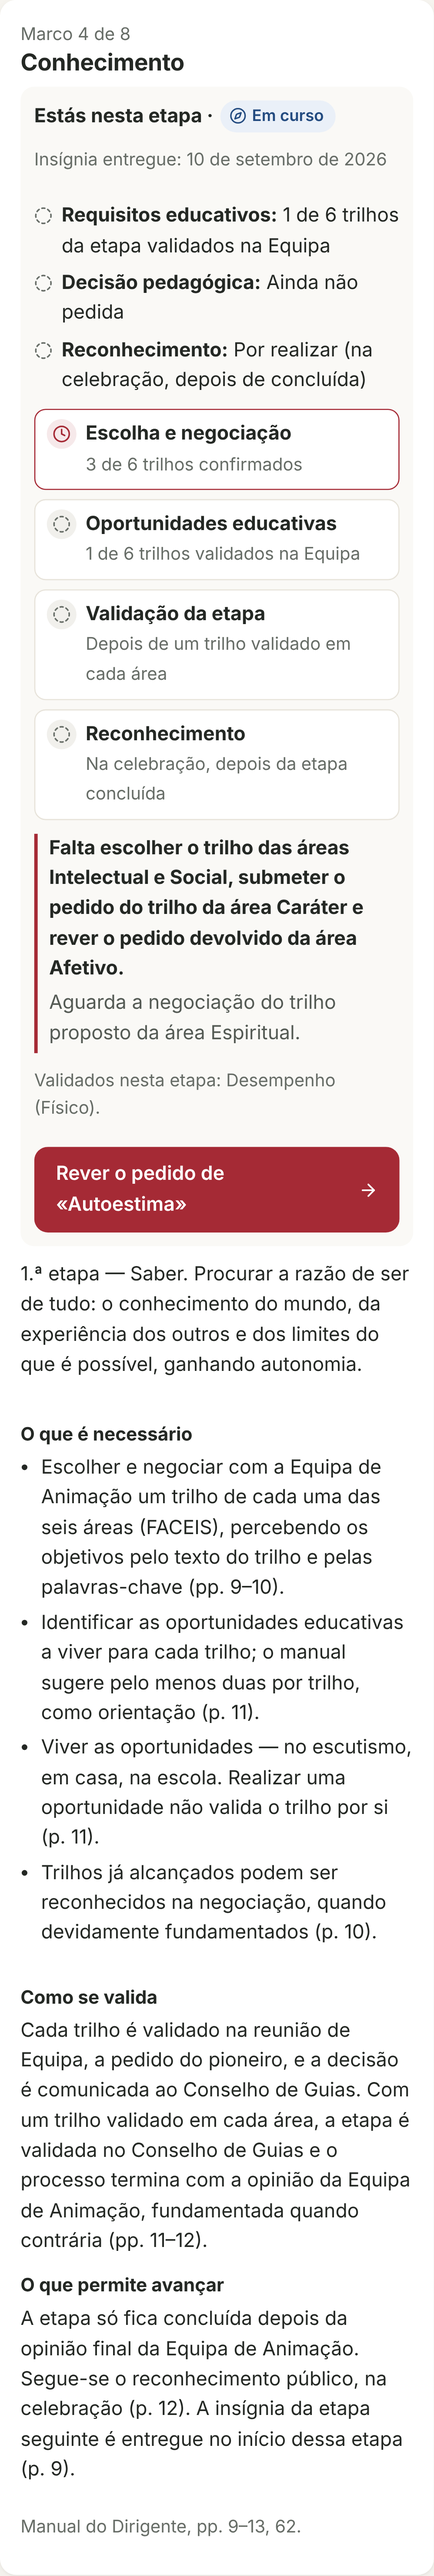
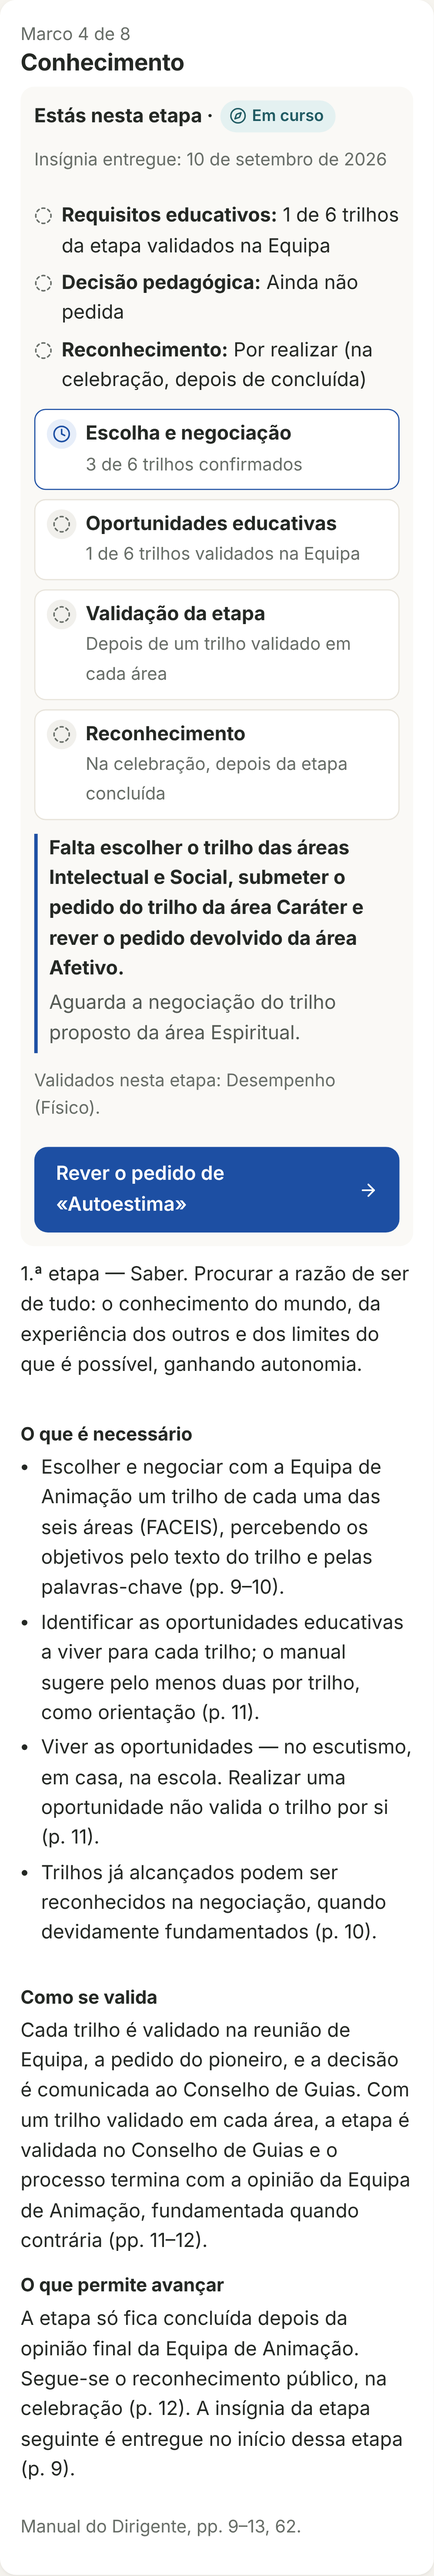
Cor principal passa a azulão (cor dos Pioneiros)
- Variáveis de destaque com nomes neutros (--accent*), azulão nos temas claro e escuro
  com contraste AA; anel de foco laranja para se distinguir do destaque.
- Logótipo e ícone em azulão; capturas atualizadas.

Claude-Session: https://claude.ai/code/session_01RHnng4HnqckYC12h8qqyAi

Changed region(s): [[0.0621, 0.4352, 0.9319, 0.4974], [0.0621, 0.3109, 0.0932, 0.4041], [0.0621, 0.1554, 0.0932, 0.1865]]

diff --git a/src/styles.css b/src/styles.css
@@ -10,18 +10,18 @@
   --ink: #242824;
   --ink-soft: #545a54;
   --ink-faint: #676d67;
-  --red: #a52a35;            /* preenchimento de destaque */
-  --red-dark: #861f29;
-  --red-ink: #a52a35;        /* texto/ícones de destaque sobre o fundo */
-  --red-tint: #f6e9ea;
-  --on-red: #ffffff;
+  --accent: #1d4fa3;         /* azulão dos Pioneiros: preenchimento de destaque */
+  --accent-strong: #163e82;
+  --accent-ink: #1d4fa3;     /* texto/ícones de destaque sobre o fundo */
+  --accent-tint: #e7eef9;
+  --on-accent: #ffffff;
   --green: #51634e;
   --green-ink: #4a5c47;
   --green-tint: #edf1ec;
   --amber: #8a5a12;
   --amber-tint: #fbf1e0;
-  --blue-ink: #234b80;
-  --blue-tint: #eaf0f8;
+  --blue-ink: #1f5a62;
+  --blue-tint: #e4f1f1;
   --info-ink: #2b3f5c;
   --info-tint: #eef1f6;
   --neutral-tint: #efede7;
@@ -32,7 +32,7 @@
   --topo: #d9d2c3;           /* linhas topográficas */
   --path: #d8c9a8;           /* trilho do mapa */
   --path-edge: #c2b28d;
-  --focus: #1f5fbf;
+  --focus: #c2560c;
   --radius: 14px;
   --shadow: 0 1px 2px rgba(36, 40, 36, 0.05), 0 4px 14px rgba(36, 40, 36, 0.05);
   --nav-h: 64px;
@@ -55,18 +55,18 @@
   --ink: #ecebe5;
   --ink-soft: #bec2ba;
   --ink-faint: #9ea39a;
-  --red: #b5333e;
-  --red-dark: #c8434e;
-  --red-ink: #f0939b;
-  --red-tint: #3a2226;
-  --on-red: #ffffff;
+  --accent: #2f63c4;
+  --accent-strong: #3d71d3;
+  --accent-ink: #9fc0f5;
+  --accent-tint: #1c2a44;
+  --on-accent: #ffffff;
   --green: #8fae89;
   --green-ink: #a9c6a3;
   --green-tint: #263025;
   --amber: #e7bb6c;
   --amber-tint: #382c18;
-  --blue-ink: #a7c5f0;
-  --blue-tint: #1e2a3a;
+  --blue-ink: #9fd3d3;
+  --blue-tint: #1d3132;
   --info-ink: #b9c9e2;
   --info-tint: #232b37;
   --neutral-tint: #30362f;
@@ -77,7 +77,7 @@
   --topo: #2f352e;
   --path: #4a4436;
   --path-edge: #5d5541;
-  --focus: #86b4ff;
+  --focus: #f3a35b;
   --shadow: 0 1px 2px rgba(0, 0, 0, 0.3), 0 4px 14px rgba(0, 0, 0, 0.25);
   color-scheme: dark;
 }
@@ -92,18 +92,18 @@
   --ink: #ecebe5;
   --ink-soft: #bec2ba;
   --ink-faint: #9ea39a;
-  --red: #b5333e;
-  --red-dark: #c8434e;
-  --red-ink: #f0939b;
-  --red-tint: #3a2226;
-  --on-red: #ffffff;
+  --accent: #2f63c4;
+  --accent-strong: #3d71d3;
+  --accent-ink: #9fc0f5;
+  --accent-tint: #1c2a44;
+  --on-accent: #ffffff;
   --green: #8fae89;
   --green-ink: #a9c6a3;
   --green-tint: #263025;
   --amber: #e7bb6c;
   --amber-tint: #382c18;
-  --blue-ink: #a7c5f0;
-  --blue-tint: #1e2a3a;
+  --blue-ink: #9fd3d3;
+  --blue-tint: #1d3132;
   --info-ink: #b9c9e2;
   --info-tint: #232b37;
   --neutral-tint: #30362f;
@@ -114,7 +114,7 @@
   --topo: #2f352e;
   --path: #4a4436;
   --path-edge: #5d5541;
-  --focus: #86b4ff;
+  --focus: #f3a35b;
   --shadow: 0 1px 2px rgba(0, 0, 0, 0.3), 0 4px 14px rgba(0, 0, 0, 0.25);
   color-scheme: dark;
   }
@@ -124,7 +124,7 @@
 html, body { margin: 0; background: var(--ivory); }
 body { min-height: 100dvh; -webkit-font-smoothing: antialiased; }
 img { max-width: 100%; display: block; }
-a { color: var(--red-ink); text-underline-offset: 3px; }
+a { color: var(--accent-ink); text-underline-offset: 3px; }
 h1, h2, h3 { line-height: 1.25; margin: 0 0 0.5rem; font-weight: 650; letter-spacing: -0.01em; }
 h1 { font-size: 1.55rem; }
 h2 { font-size: 1.2rem; }
@@ -158,7 +158,7 @@ small, .muted { color: var(--ink-soft); }
   flex: 1; display: flex; flex-direction: column; align-items: center; justify-content: center; gap: 2px;
   color: var(--ink-soft); text-decoration: none; font-size: 0.75rem; min-width: 0;
 }
-.nav-link[aria-current='page'] { color: var(--red-ink); font-weight: 650; }
+.nav-link[aria-current='page'] { color: var(--accent-ink); font-weight: 650; }
 .side-nav { display: none; }
 
 @media (min-width: 960px) {
@@ -166,7 +166,7 @@ small, .muted { color: var(--ink-soft); }
   .bottom-nav { display: none; }
   .side-nav { display: flex; flex-direction: column; gap: 4px; padding: 24px 12px; position: sticky; top: 56px; align-self: start; }
   .side-nav .nav-link { flex-direction: row; justify-content: flex-start; gap: 12px; font-size: 1rem; padding: 10px 14px; border-radius: 10px; }
-  .side-nav .nav-link[aria-current='page'] { background: var(--red-tint); }
+  .side-nav .nav-link[aria-current='page'] { background: var(--accent-tint); }
   .main { padding: 28px 24px 48px; }
 }
 
@@ -194,13 +194,13 @@ a.list-item:hover { background: var(--surface-2); }
 .btn {
   display: inline-flex; align-items: center; justify-content: center; gap: 8px; min-height: 48px; padding: 10px 18px;
   border-radius: 12px; border: 1px solid transparent; font: inherit; font-weight: 600; cursor: pointer; text-decoration: none;
-  background: var(--red); color: var(--on-red); transition: background 0.15s;
+  background: var(--accent); color: var(--on-accent); transition: background 0.15s;
 }
-.btn:hover { background: var(--red-dark); }
+.btn:hover { background: var(--accent-strong); }
 .btn.secondary { background: var(--card); color: var(--ink); border-color: var(--line); }
 .btn.secondary:hover { background: var(--surface-3); }
-.btn.ghost { background: transparent; color: var(--red-ink); padding: 10px 8px; }
-.btn.ghost:hover { background: var(--red-tint); }
+.btn.ghost { background: transparent; color: var(--accent-ink); padding: 10px 8px; }
+.btn.ghost:hover { background: var(--accent-tint); }
 .btn.quiet { background: var(--green-tint); color: var(--green-ink); }
 .btn.block { width: 100%; }
 .btn:disabled { opacity: 0.55; cursor: not-allowed; }
@@ -222,7 +222,7 @@ fieldset { border: 0; padding: 0; margin: 0 0 14px; }
 legend { font-weight: 600; margin-bottom: 6px; }
 .radio-cards { display: grid; gap: 8px; }
 .radio-card { display: flex; gap: 10px; align-items: flex-start; border: 1px solid var(--line); border-radius: 10px; padding: 12px; cursor: pointer; }
-.radio-card:has(input:checked) { border-color: var(--red); background: var(--red-tint); }
+.radio-card:has(input:checked) { border-color: var(--accent); background: var(--accent-tint); }
 
 /* Estados (texto + ícone + cor) */
 .badge { display: inline-flex; align-items: center; gap: 5px; font-size: 0.82rem; font-weight: 600; padding: 3px 10px 3px 8px; border-radius: 99px; white-space: nowrap; }
@@ -233,7 +233,7 @@ legend { font-weight: 600; margin-bottom: 6px; }
 .tone-muted { background: var(--muted-tint); color: var(--ink-faint); }
 
 .alert { display: flex; gap: 10px; align-items: flex-start; padding: 12px 14px; border-radius: 12px; margin-bottom: 14px; }
-.alert.error { background: var(--red-tint); color: var(--red-ink); }
+.alert.error { background: var(--accent-tint); color: var(--accent-ink); }
 .alert.success { background: var(--green-tint); color: var(--green-ink); }
 .alert.info { background: var(--info-tint); color: var(--info-ink); }
 .alert.warn { background: var(--amber-tint); color: var(--amber); }
@@ -242,7 +242,7 @@ legend { font-weight: 600; margin-bottom: 6px; }
 .empty { text-align: center; padding: 28px 16px; color: var(--ink-soft); }
 .empty svg { color: var(--green-ink); margin: 0 auto 8px; }
 .loading { display: flex; align-items: center; justify-content: center; gap: 10px; padding: 32px; color: var(--ink-soft); }
-.spinner { width: 20px; height: 20px; border: 2.5px solid var(--line); border-top-color: var(--red); border-radius: 50%; animation: spin 0.9s linear infinite; }
+.spinner { width: 20px; height: 20px; border: 2.5px solid var(--line); border-top-color: var(--accent); border-radius: 50%; animation: spin 0.9s linear infinite; }
 @keyframes spin { to { transform: rotate(360deg); } }
 @media (prefers-reduced-motion: reduce) { .spinner { animation-duration: 3s; } * { transition: none !important; } }
 
@@ -255,13 +255,13 @@ legend { font-weight: 600; margin-bottom: 6px; }
 .meter { height: 8px; background: var(--meter); border-radius: 99px; overflow: hidden; }
 .meter > span { display: block; height: 100%; background: var(--green); border-radius: 99px; }
 .area-head { display: flex; align-items: center; gap: 10px; }
-.area-code { width: 34px; height: 34px; border-radius: 10px; background: var(--red-tint); color: var(--red-ink); display: grid; place-items: center; font-weight: 700; flex: none; }
+.area-code { width: 34px; height: 34px; border-radius: 10px; background: var(--accent-tint); color: var(--accent-ink); display: grid; place-items: center; font-weight: 700; flex: none; }
 .slot-grid { display: grid; gap: 8px; }
 @media (min-width: 640px) { .slot-grid { grid-template-columns: 1fr 1fr; } }
 .slot { border: 1px solid var(--line); border-radius: 12px; padding: 12px; display: flex; gap: 10px; align-items: flex-start; text-decoration: none; color: inherit; min-height: 64px; }
 .objective { display: grid; grid-template-columns: auto 1fr; gap: 10px; padding: 10px 0; border-top: 1px solid var(--line); }
 .objective:first-child { border-top: 0; }
-.code { font-weight: 700; color: var(--red-ink); font-variant-numeric: tabular-nums; }
+.code { font-weight: 700; color: var(--accent-ink); font-variant-numeric: tabular-nums; }
 .chips { display: flex; flex-wrap: wrap; gap: 6px; }
 .chip { background: var(--surface-3); border-radius: 99px; padding: 2px 10px; font-size: 0.85rem; }
 .timeline { list-style: none; padding: 0; margin: 0; border-left: 2px solid var(--line); }
@@ -271,9 +271,9 @@ legend { font-weight: 600; margin-bottom: 6px; }
 .tabs { display: flex; gap: 6px; overflow-x: auto; margin-bottom: 14px; padding-bottom: 2px; }
 .tab { white-space: nowrap; padding: 8px 14px; border-radius: 99px; background: var(--card); border: 1px solid var(--line); text-decoration: none; color: var(--ink); min-height: 40px; display: inline-flex; align-items: center; gap: 6px; font: inherit; cursor: pointer; }
 .tab[aria-selected='true'], .tab[aria-current='page'] { background: var(--ink); color: var(--ivory); border-color: var(--ink); }
-.count { background: var(--red); color: var(--on-red); border-radius: 99px; font-size: 0.75rem; padding: 0 7px; font-weight: 700; }
+.count { background: var(--accent); color: var(--on-accent); border-radius: 99px; font-size: 0.75rem; padding: 0 7px; font-weight: 700; }
 .notice-dot { position: relative; }
-.notice-dot[data-count]::after { content: attr(data-count); position: absolute; top: -6px; right: -10px; background: var(--red); color: var(--on-red); font-size: 0.65rem; border-radius: 99px; padding: 0 5px; font-weight: 700; }
+.notice-dot[data-count]::after { content: attr(data-count); position: absolute; top: -6px; right: -10px; background: var(--accent); color: var(--on-accent); font-size: 0.65rem; border-radius: 99px; padding: 0 5px; font-weight: 700; }
 .hero { padding: 40px 0 24px; }
 .hero h1 { font-size: 2rem; }
 .public { max-width: 520px; margin: 0 auto; padding: 24px 16px 48px; }
@@ -295,7 +295,7 @@ dl.meta dd { margin: 0; }
 .caminho-controls .tabs { margin: 0; }
 .inline-field { display: inline-flex; align-items: center; gap: 8px; font-weight: 600; }
 .inline-field select { width: auto; min-width: 150px; }
-.caminho-hero { border-left: 4px solid var(--red); }
+.caminho-hero { border-left: 4px solid var(--accent); }
 .caminho-hero .area-markers { margin-top: 14px; }
 .caminho-layout { display: grid; gap: 14px; }
 @media (min-width: 960px) { .main:has(.caminho-page) { max-width: 1100px; } .milestone-panel .personal-block { padding: 16px; } }
@@ -312,7 +312,7 @@ dl.meta dd { margin: 0; }
 .map-legend li { display: inline-flex; align-items: center; gap: 6px; }
 .lg { width: 16px; height: 16px; border-radius: 50%; display: inline-block; border: 2.5px solid var(--path-edge); background: var(--card); }
 .lg-feito { border-color: var(--green-ink); background: var(--green-tint); }
-.lg-atual { border-color: var(--red-ink); background: var(--red-tint); border-width: 3.5px; }
+.lg-atual { border-color: var(--accent-ink); background: var(--accent-tint); border-width: 3.5px; }
 .lg-porvir { border-style: dashed; }
 .lg-info { border-style: dotted; }
 .milestone-panel:focus { outline: none; }
@@ -333,9 +333,9 @@ ul.tight li { margin-bottom: 4px; }
 .cycle-steps li { display: flex; gap: 8px; align-items: flex-start; border: 1px solid var(--line); border-radius: 10px; padding: 8px 10px; background: var(--card); }
 .cs-icon { flex: none; width: 26px; height: 26px; border-radius: 50%; display: grid; place-items: center; background: var(--muted-tint); color: var(--ink-faint); }
 .cs-feito .cs-icon { background: var(--green-tint); color: var(--green-ink); }
-.cs-atual { border-color: var(--red-ink) !important; }
-.cs-atual .cs-icon { background: var(--red-tint); color: var(--red-ink); }
-.needs { border-left: 3px solid var(--red); padding-left: 10px; }
+.cs-atual { border-color: var(--accent-ink) !important; }
+.cs-atual .cs-icon { background: var(--accent-tint); color: var(--accent-ink); }
+.needs { border-left: 3px solid var(--accent); padding-left: 10px; }
 .needs p { margin: 0 0 4px; }
 .area-markers { list-style: none; margin: 0; padding: 0; display: grid; gap: 8px; }
 @media (min-width: 640px) { .area-markers { grid-template-columns: 1fr 1fr 1fr; } }
@@ -357,34 +357,34 @@ ul.tight li { margin-bottom: 4px; }
 .milestone-list details > :not(summary) { margin: 0 18px 16px; }
 .ml-num { width: 34px; height: 34px; border-radius: 50%; display: grid; place-items: center; font-weight: 700; border: 2.5px solid var(--path-edge); flex: none; }
 .ml-feito .ml-num { border-color: var(--green-ink); background: var(--green-tint); color: var(--green-ink); }
-.ml-atual .ml-num { border-color: var(--red-ink); background: var(--red-tint); color: var(--red-ink); }
+.ml-atual .ml-num { border-color: var(--accent-ink); background: var(--accent-tint); color: var(--accent-ink); }
 .ml-por_vir .ml-num { border-style: dashed; }
 .ml-info .ml-num { border-style: dotted; }
-.ml-atual { box-shadow: 0 0 0 2px var(--red-ink), var(--shadow); }
+.ml-atual { box-shadow: 0 0 0 2px var(--accent-ink), var(--shadow); }
 
 /* Barra superior e navegação */
 .topbar-tools { gap: 2px; flex-wrap: nowrap; min-width: 0; }
 .section-name { max-width: 180px; }
-.stage-chip { display: inline-flex; align-items: center; gap: 6px; padding: 6px 12px; border-radius: 99px; background: var(--red-tint); color: var(--red-ink); text-decoration: none; font-weight: 600; font-size: 0.88rem; white-space: nowrap; min-height: 36px; max-width: 46vw; overflow: hidden; }
+.stage-chip { display: inline-flex; align-items: center; gap: 6px; padding: 6px 12px; border-radius: 99px; background: var(--accent-tint); color: var(--accent-ink); text-decoration: none; font-weight: 600; font-size: 0.88rem; white-space: nowrap; min-height: 36px; max-width: 46vw; overflow: hidden; }
 .stage-chip-state { font-weight: 500; color: var(--ink-soft); overflow: hidden; text-overflow: ellipsis; }
 @media (max-width: 640px) { .stage-chip-state { display: none; } .brand-name { display: none; } .env-label { display: none; } }
 .topbar-avatar { display: inline-flex; padding: 4px; border-radius: 50%; text-decoration: none; }
 .topbar-avatar .avatar { width: 34px; height: 34px; font-size: 0.8rem; }
 @media (min-width: 960px) { .topbar-avatar { display: none; } }
 .nav-icon { position: relative; display: inline-flex; }
-.nav-count { position: absolute; top: -6px; right: -12px; background: var(--red); color: var(--on-red); font-size: 0.66rem; font-weight: 700; border-radius: 99px; padding: 0 5px; line-height: 16px; min-width: 16px; text-align: center; }
+.nav-count { position: absolute; top: -6px; right: -12px; background: var(--accent); color: var(--on-accent); font-size: 0.66rem; font-weight: 700; border-radius: 99px; padding: 0 5px; line-height: 16px; min-width: 16px; text-align: center; }
 .side-nav .nav-count { position: static; margin-left: 6px; order: 2; }
 .side-nav .nav-link { position: relative; }
 .bottom-nav .nav-link { padding: 4px 2px; font-size: 0.72rem; }
 .side-nav .nav-icon { order: 0; }
 
 /* Início */
-.next-step { border-left: 4px solid var(--red); }
+.next-step { border-left: 4px solid var(--accent); }
 .where-card, .caminho-shortcut { display: flex; align-items: center; gap: 14px; text-decoration: none; color: inherit; }
 .where-card:hover, .caminho-shortcut:hover { background: var(--surface-2); }
-.where-icon { width: 46px; height: 46px; border-radius: 50%; display: grid; place-items: center; background: var(--red-tint); color: var(--red-ink); flex: none; }
+.where-icon { width: 46px; height: 46px; border-radius: 50%; display: grid; place-items: center; background: var(--accent-tint); color: var(--accent-ink); flex: none; }
 .where-title { font-size: 1.12rem; }
-.caminho-shortcut { border: 2px solid var(--red-ink); background-image: radial-gradient(circle at 92% 20%, var(--red-tint), transparent 55%); }
+.caminho-shortcut { border: 2px solid var(--accent-ink); background-image: radial-gradient(circle at 92% 20%, var(--accent-tint), transparent 55%); }
 .dist { list-style: none; margin: 0; padding: 0; display: grid; grid-template-columns: repeat(3, 1fr); gap: 8px; }
 @media (min-width: 640px) { .dist { grid-template-columns: repeat(6, 1fr); } }
 .dist a { display: flex; flex-direction: column; align-items: center; padding: 10px 4px; border-radius: 12px; background: var(--surface-2); text-decoration: none; color: var(--ink); min-height: 72px; }

diff --git a/src/components/caminho/TrailMap.tsx b/src/components/caminho/TrailMap.tsx
@@ -143,7 +143,7 @@ function CycleRing({ x, y, r, phases }: { x: number; y: number; r: number; phase
     const a1 = -Math.PI / 2 + (i + 1) * (Math.PI / 2) - 0.16;
     const d = `M${x + R * Math.cos(a0)},${y + R * Math.sin(a0)} A${R},${R} 0 0 1 ${x + R * Math.cos(a1)},${y + R * Math.sin(a1)}`;
     const st = phases?.[i]?.status;
-    const stroke = st === 'feito' ? 'var(--green-ink)' : st === 'atual' ? 'var(--red-ink)' : 'var(--path-edge)';
+    const stroke = st === 'feito' ? 'var(--green-ink)' : st === 'atual' ? 'var(--accent-ink)' : 'var(--path-edge)';
     return <path key={i} d={d} stroke={stroke} strokeWidth={st === 'atual' ? 5 : 4} fill="none" strokeLinecap="round" opacity={st ? 1 : 0.55} />;
   });
   return <g aria-hidden="true">{arcs}</g>;
@@ -236,9 +236,9 @@ function MapSvg({ variant, nodes, selected, onSelect, title }: Props & { variant
         const isSel = selected === m.key;
         const stageNo = ['conhecimento', 'vontade', 'construcao'].indexOf(m.key) + 1;
         const lab = L.label(i);
-        const stroke = n.status === 'atual' ? 'var(--red-ink)' : n.status === 'feito' ? 'var(--green-ink)' : 'var(--path-edge)';
-        const fill = n.status === 'feito' ? 'var(--green-tint)' : n.status === 'atual' ? 'var(--red-tint)' : 'var(--card)';
-        const color = n.status === 'atual' ? 'var(--red-ink)' : n.status === 'feito' ? 'var(--green-ink)' : 'var(--ink-soft)';
+        const stroke = n.status === 'atual' ? 'var(--accent-ink)' : n.status === 'feito' ? 'var(--green-ink)' : 'var(--path-edge)';
+        const fill = n.status === 'feito' ? 'var(--green-tint)' : n.status === 'atual' ? 'var(--accent-tint)' : 'var(--card)';
+        const color = n.status === 'atual' ? 'var(--accent-ink)' : n.status === 'feito' ? 'var(--green-ink)' : 'var(--ink-soft)';
         const statusText = { feito: 'concluído', atual: 'estás aqui', por_vir: 'por vir', info: 'momento sem registo na aplicação', neutro: '' }[n.status];
         const aria = [m.name, statusText, n.caption ?? '']
           .filter(Boolean)
@@ -267,7 +267,7 @@ function MapSvg({ variant, nodes, selected, onSelect, title }: Props & { variant
             )}
             <text x={labelX} y={labelY} textAnchor={lab.anchor} fontSize={variant === 'largo' ? 15 : 14.5} fontWeight="700" fill="var(--ink)">{m.short}</text>
             {n.caption && (
-              <text x={labelX} y={labelY + 17} textAnchor={lab.anchor} fontSize="12" fill={n.status === 'atual' ? 'var(--red-ink)' : 'var(--ink-soft)'}>{n.caption}</text>
+              <text x={labelX} y={labelY + 17} textAnchor={lab.anchor} fontSize="12" fill={n.status === 'atual' ? 'var(--accent-ink)' : 'var(--ink-soft)'}>{n.caption}</text>
             )}
             {stageNo > 0 && (
               <text x={labelX} y={labelY + (n.caption ? 33 : 17)} textAnchor={lab.anchor} fontSize="11" fill="var(--ink-faint)">
@@ -305,7 +305,7 @@ export function MapLegend() {
           {[0, 1, 2, 3].map((i) => {
             const a0 = -Math.PI / 2 + i * (Math.PI / 2) + 0.2;
             const a1 = a0 + Math.PI / 2 - 0.4;
-            return <path key={i} d={`M${13 * Math.cos(a0)},${13 * Math.sin(a0)} A13,13 0 0 1 ${13 * Math.cos(a1)},${13 * Math.sin(a1)}`} stroke={i === 0 ? 'var(--green-ink)' : i === 1 ? 'var(--red-ink)' : 'var(--path-edge)'} strokeWidth="3.5" fill="none" strokeLinecap="round" />;
+            return <path key={i} d={`M${13 * Math.cos(a0)},${13 * Math.sin(a0)} A13,13 0 0 1 ${13 * Math.cos(a1)},${13 * Math.sin(a1)}`} stroke={i === 0 ? 'var(--green-ink)' : i === 1 ? 'var(--accent-ink)' : 'var(--path-edge)'} strokeWidth="3.5" fill="none" strokeLinecap="round" />;
           })}
         </svg>
         Ciclo da etapa: escolha · oportunidades · validação · reconhecimento

diff --git a/src/pages/Notifications.tsx b/src/pages/Notifications.tsx
@@ -29,7 +29,7 @@ export default function Notifications() {
             {items.map((n) => {
               const body = (
                 <>
-                  <Bell size={18} aria-hidden="true" color={n.read_at ? 'var(--ink-faint)' : 'var(--red-ink)'} />
+                  <Bell size={18} aria-hidden="true" color={n.read_at ? 'var(--ink-faint)' : 'var(--accent-ink)'} />
                   <span className="grow">
                     <strong style={{ fontWeight: n.read_at ? 500 : 700 }}>{n.title}</strong>
                     {!n.read_at && <span className="sr-only"> (por ler)</span>}

diff --git a/src/components/StagePanel.tsx b/src/components/StagePanel.tsx
@@ -16,7 +16,7 @@ export function StagePanel({ summary, catalog, linkTrails = true }: { summary: S
     <div className="card">
       <div className="row between">
         <div className="card-title">
-          <Flag aria-hidden="true" color="var(--red-ink)" />
+          <Flag aria-hidden="true" color="var(--accent-ink)" />
           <h2 style={{ margin: 0 }}>Etapa {stageName(catalog, path.stage_key)}</h2>
         </div>
         {path.status === 'concluida' ? (

diff --git a/src/components/Layout.tsx b/src/components/Layout.tsx
@@ -12,7 +12,7 @@ import { Avatar } from './ui';
 function Mark() {
   return (
     <svg className="brand-mark" viewBox="0 0 64 64" aria-hidden="true">
-      <rect width="64" height="64" rx="14" fill="#A52A35" />
+      <rect width="64" height="64" rx="14" fill="#1D4FA3" />
       <circle cx="32" cy="32" r="17" fill="none" stroke="#F7F5F0" strokeWidth="3" />
       <path d="M32 18 L37 32 L32 46 L27 32 Z" fill="#F7F5F0" />
     </svg>

diff --git a/src/pages/Home.tsx b/src/pages/Home.tsx
@@ -195,7 +195,7 @@ function LeaderHome() {
 
       <section className="card" aria-labelledby="h-pend">
         <div className="card-title">
-          <ClipboardCheck aria-hidden="true" color="var(--red-ink)" />
+          <ClipboardCheck aria-hidden="true" color="var(--accent-ink)" />
           <h2 id="h-pend" style={{ margin: 0 }}>Pendentes</h2>
         </div>
         <ul className="list">
